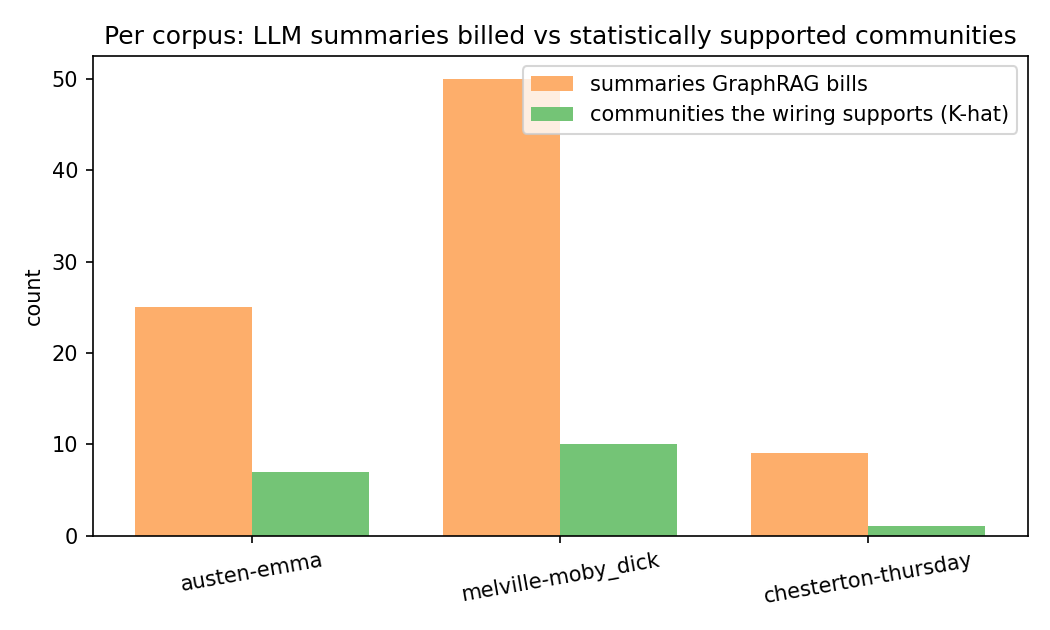
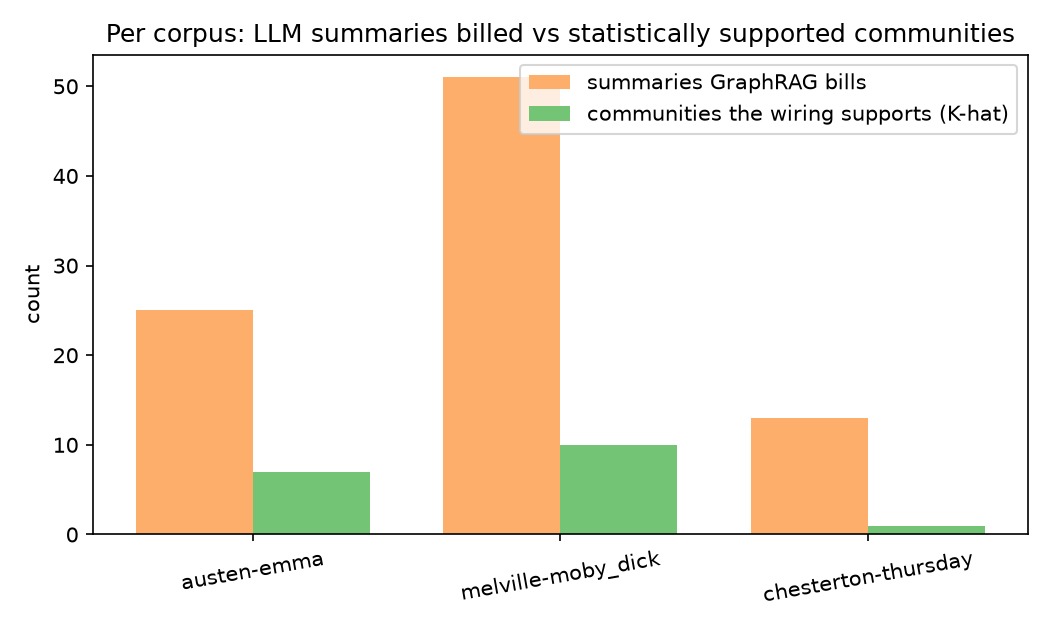
Pin graspologic-native to GraphRAG's 1.2.x range; reproduce community counts under it

diff --git a/README.md b/README.md
@@ -11,13 +11,13 @@ clusterer.
 **TL;DR**
 
 - On a graph with **no structure at all**, GraphRAG's clusterer resolves
-  **156 leaf communities** (194 summaries billed). The exact test returns
+  **172 leaf communities** (217 summaries billed). The exact test returns
   **p = 0.875, K-hat = 1**. Every one of those summaries would describe noise.
 - On graphs with 5 planted communities, the test **recovers K = 5 exactly**
   at every noise level tested, so it has power, not just a high bar.
-- On three real corpora, **79% of the summaries GraphRAG would bill** are
+- On three real corpora, **80% of the summaries GraphRAG would bill** are
   for communities the wiring does not support; where structure is real the
-  partition is still **2.6–3.7× finer** than the data justifies.
+  partition is still **2.7–3.8× finer** than the data justifies.
 
 > **About this repository.** This is a from-scratch reconstruction of a team
 > project I did earlier; the original code was never committed. Every number
@@ -46,10 +46,16 @@ to the number GraphRAG bills?
 
 ## Method
 
-**The clusterer under audit** is `graspologic.partition.hierarchical_leiden`
-with `max_cluster_size=10`, the same function and default that GraphRAG's
-`cluster_graph` operation calls. We wrap it directly rather than reimplement
-it, so the communities we test are the communities GraphRAG would summarize.
+**The clusterer under audit.** GraphRAG 3.3.0's `cluster_graph` operation
+restricts the entity graph to its largest connected component and calls
+`graspologic_native.hierarchical_leiden` with `max_cluster_size=10`,
+`resolution=1.0`, `randomness=0.001`, `iterations=1`, pinned to
+`graspologic-native 1.2.x` (its pyproject notes that 1.3 changes community
+counts and levels). We call the same native function with the same parameters
+through `graspologic`'s Python wrapper, with the same version pin in
+`requirements.txt`, so the communities we test are the communities GraphRAG
+would summarize. The hypothesis test itself never uses Leiden, so the p-values
+and K-hat below do not depend on this version; only the community counts do.
 We count leaf communities and total communities across all levels; the latter
 is the number of summaries billed in full indexing mode.
 
@@ -91,14 +97,14 @@ community structure. 771 nodes, 2,677 edges, largest connected component.
 
 | | |
 |---|---|
-| GraphRAG's clusterer | **156 leaf communities**, 194 total across 3 levels (16 → 100 → 78) |
+| GraphRAG's clusterer | **172 leaf communities**, 217 total across 4 levels (14 → 93 → 108 → 2) |
 | Exact conditional test | Q_obs = 0.328 vs. null mean 0.331, **p = 0.875** |
 | K-hat | **1** (Bonferroni p = 0.875, one test) |
 
 ![Structureless control](results/fig_control.png)
 
 The observed graph sits in the middle of its own null distribution. GraphRAG
-would nonetheless bill 194 community reports for it.
+would nonetheless bill 217 community reports for it.
 
 ### 2. Power check: planted partition
 
@@ -108,9 +114,9 @@ community).
 
 | mu | p | K-hat | Bonferroni root p | Leiden leaves | Leiden total |
 |---|---|---|---|---|---|
-| 0.10 | 0.005 | **5** | 0.03 | 99 | 132 |
-| 0.25 | 0.005 | **5** | 0.03 | 107 | 142 |
-| 0.40 | 0.005 | **5** | 0.03 | 109 | 143 |
+| 0.10 | 0.005 | **5** | 0.03 | 106 | 140 |
+| 0.25 | 0.005 | **5** | 0.03 | 114 | 151 |
+| 0.40 | 0.005 | **5** | 0.03 | 119 | 154 |
 
 The test detects the structure and recovers the exact number of communities
 every time. Leiden's leaf partition is roughly 20× finer than the truth.
@@ -124,16 +130,16 @@ swap null is exact.
 
 | corpus | nodes / edges | p | K-hat | Leiden leaves | billed | excess | fineness |
 |---|---|---|---|---|---|---|---|
-| *Emma* | 110 / 351 | 0.005 | 7 | 18 | 25 | 18 | 2.6× |
-| *Moby Dick* | 180 / 360 | 0.005 | 10 | 37 | 50 | 40 | 3.7× |
-| *The Man Who Was Thursday* | 48 / 90 | 0.135 | 1 | 7 | 9 | 8 | 7.0× |
+| *Emma* | 110 / 351 | 0.005 | 7 | 19 | 25 | 18 | 2.7× |
+| *Moby Dick* | 180 / 360 | 0.005 | 10 | 38 | 51 | 41 | 3.8× |
+| *The Man Who Was Thursday* | 48 / 90 | 0.135 | 1 | 10 | 13 | 12 | 10.0× |
 
 ![Billed vs supported](results/fig_billed_vs_supported.png)
 
 Where structure is real (*Emma*, *Moby Dick*), the Leiden partition is still
-2.6–3.7× finer than the wiring supports. On the smallest graph the test does
-not reject at all, yet 9 summaries would be billed. Across the three corpora,
-66 of 84 billed summaries (79%) describe communities the data does not
+2.7–3.8× finer than the wiring supports. On the smallest graph the test does
+not reject at all, yet 13 summaries would be billed. Across the three corpora,
+71 of 89 billed summaries (80%) describe communities the data does not
 support.
 
 ### 4. Cost model
